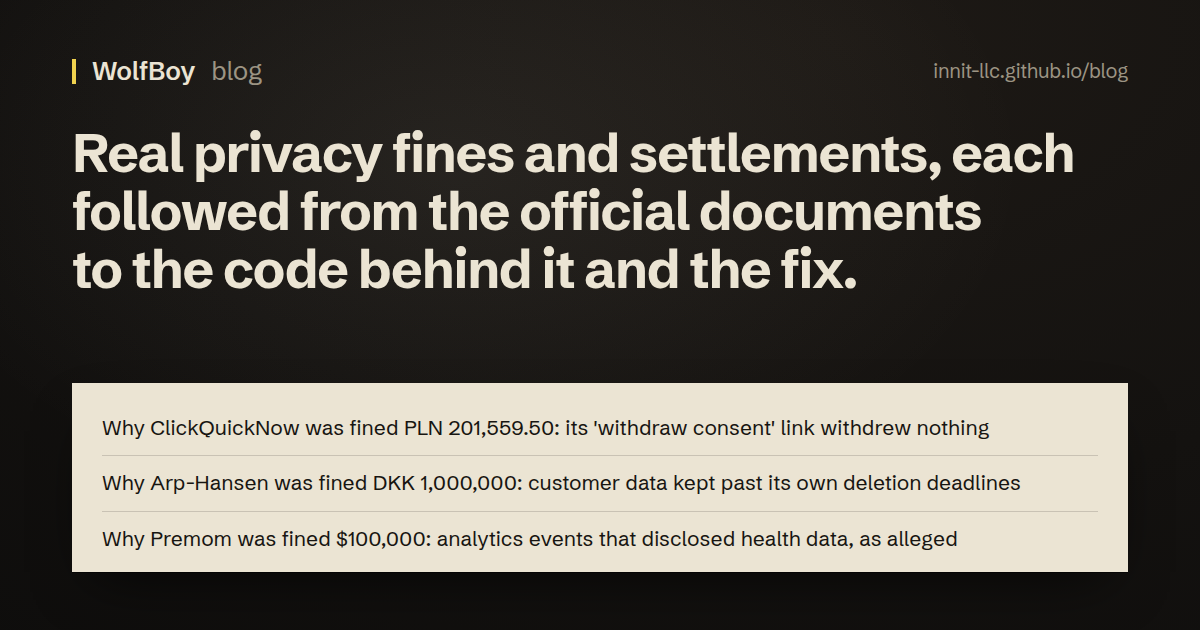
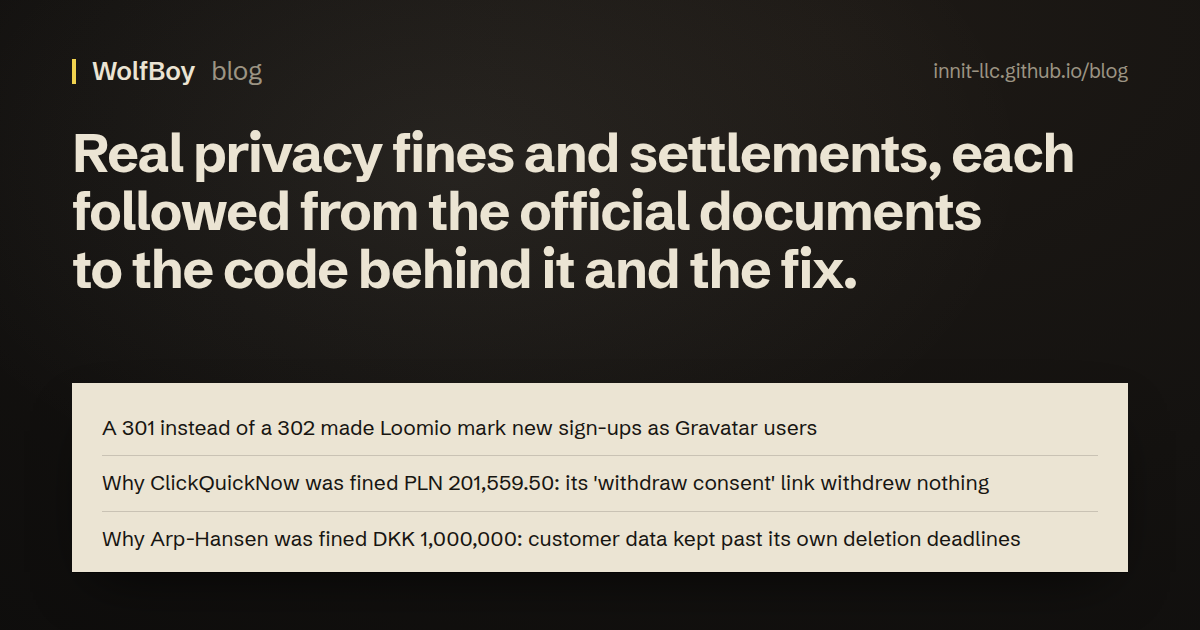
The Loomio Gravatar write-up

Changed region(s): [[0.0617, 0.6635, 0.8325, 0.6937], [0.1233, 0.8444, 0.8633, 0.8746], [0.1233, 0.754, 0.8633, 0.7841]]

diff --git a/docs/loomio-gravatar-301/index.html b/docs/loomio-gravatar-301/index.html
@@ -1,0 +1,118 @@
+<!DOCTYPE html>
+<html lang="en">
+<head>
+<meta charset="utf-8" />
+<meta name="viewport" content="width=device-width, initial-scale=1" />
+<title>A 301 instead of a 302 made Loomio mark new sign-ups as Gravatar users</title>
+<meta name="description" content="Loomio asked Gravatar about every new sign-up over plain HTTP and read anything but a 302 as yes. Gravatar now answers 301. How I found it, and the 3.12.0 fix." />
+<meta property="og:type" content="article" />
+<meta property="og:site_name" content="WolfBoy blog" />
+<meta property="og:title" content="A 301 instead of a 302 made Loomio mark new sign-ups as Gravatar users" />
+<meta property="og:description" content="Loomio asked Gravatar about every new sign-up over plain HTTP and read anything but a 302 as yes. Gravatar now answers 301. How I found it, and the 3.12.0 fix." />
+<meta property="og:url" content="https://innit-llc.github.io/blog/loomio-gravatar-301/" />
+<meta property="og:image" content="https://innit-llc.github.io/blog/og/loomio-gravatar-301.png" />
+<meta property="og:image:width" content="1200" />
+<meta property="og:image:height" content="630" />
+<meta property="og:image:alt" content="A 301 instead of a 302 made Loomio mark new sign-ups as Gravatar users" />
+<meta name="twitter:card" content="summary_large_image" />
+<meta name="color-scheme" content="light dark" />
+<link rel="preload" href="../fonts/SchibstedGrotesk-normal-400-900-latin.woff2" as="font" type="font/woff2" crossorigin="anonymous" />
+<link rel="stylesheet" href="../style.css" />
+</head>
+<body class="post">
+<header class="mast"><div class="wrap"><a class="brand" href="../"><b>WolfBoy</b> blog</a></div></header>
+<main class="wrap">
+<article>
+<header>
+<h1>A 301 instead of a 302 made Loomio mark new sign-ups as Gravatar users</h1>
+<p class="meta"><time datetime="2026-11-17">17 November 2026</time></p>
+</header>
+<p>In late September I ran a static-analysis and LLM review tool I'm building on Loomio v3.9.0. Loomio is an open-source app for group decisions. The tool flagged one method as sending a hash of an email address to a third party that isn't disclosed.</p>
+<p>The method is eleven lines long, in <code>app/models/concerns/has_avatar.rb</code>:</p>
+<pre><code class="language-ruby">def has_gravatar?(options = {})
+  return false if Rails.env.test?
+  hash = Digest::MD5.hexdigest(email.to_s.downcase)
+  options = { :rating =&gt; 'x', :timeout =&gt; 2 }.merge(options)
+  http = Net::HTTP.new('www.gravatar.com', 80)
+  http.read_timeout = options[:timeout]
+  response = http.request_head("/avatar/#{hash}?rating=#{options[:rating]}&amp;default=http://gravatar.com/avatar")
+  response.code != '302'
+rescue StandardError, Timeout::Error
+  false  # Don't show "gravatar" if the service is down or slow
+end
+</code></pre>
+<p>It asks Gravatar whether this email address has a picture. A redirect to the default image (a <code>302</code>) means no. The port-80 request and the <code>'302'</code> comparison date from a 2012 commit.</p>
+<h2 id="reading-it-properly">Reading it properly</h2>
+<p>I read the code around it, with AI assistance, and three things stood out before I ran anything.</p>
+<p>The first was the transport. The port is 80 and <code>use_ssl</code> is never set, so the MD5 of the address travels in the request path, in cleartext.</p>
+<p>The second was the caller. <code>has_gravatar?</code> runs from <code>before_create :set_default_avatar_kind</code>, which means it runs when a user row is created: self sign-up, first SSO login, trial sign-up. For self sign-up the row is created when the address is submitted on the form, before anyone has verified it.</p>
+<p>The third was the last line of the method, <code>response.code != '302'</code>, which counts everything that isn't a 302 as "has a Gravatar".</p>
+<h2 id="running-it">Running it</h2>
+<p>I copied the method body into a script, removed the test-environment guard, added two <code>puts</code> lines, and put the same request over HTTPS next to it. I used two addresses on the reserved <code>.invalid</code> TLD (the first is shown). I didn't touch loomio.com or any other live instance.</p>
+<pre><code>ruby 3.3.9, net-http 0.4.1, 2026-10-20 08:08:10 UTC
+nobody-1@example.invalid md5=bbcdd833ef228897b40575bcd6f25cf5
+  port 80 -&gt; response.code="301" (String) location=https://www.gravatar.com/avatar/bbcdd833ef228897b40575bcd6f25cf5?rating=x&amp;default=http://gravatar.com/avatar
+  has_gravatar? as written (port 80) =&gt; true
+  port 443 -&gt; response.code="302"
+  same check over HTTPS              =&gt; false
+</code></pre>
+<p>The method returned <code>true</code> for an address that cannot exist. Over HTTPS, Gravatar still answers <code>302</code> for "no picture". Over port 80 it answers <code>301</code> and points at the same URL on HTTPS. <code>Net::HTTP#request_head</code> doesn't follow redirects, so the code sees the string <code>"301"</code>, and <code>"301" != "302"</code> is true.</p>
+<p>Loomio's code hadn't changed since 2012; Gravatar's server had. The Internet Archive has a plain-HTTP avatar URL returning <code>200</code> on 2023-04-13 and a <code>301</code> to HTTPS on 2023-10-04, with nothing captured in between. Somewhere in that window the check started answering yes.</p>
+<h2 id="what-that-does-to-people">What that does to people</h2>
+<p>On a server that reaches www.gravatar.com directly on port 80, accounts created by sign-up, SSO or trial without an uploaded picture end up with <code>avatar_kind = 'gravatar'</code>. Their avatar URL becomes <code>https://secure.gravatar.com/avatar/&lt;md5&gt;.png?d=retro&amp;r=pg&amp;s=128</code>.</p>
+<p>That URL then goes wherever the avatar goes: other members, notification emails, Microsoft Teams webhooks, Matrix chatbot messages. For authors and commenters in non-private discussions it goes to logged-out visitors too, in the JSON and in the server-rendered HTML. Every browser or mail client that loads the image sends Gravatar the viewer's IP address along with the member's hash. None of these people chose Gravatar, and there was no setting to turn it off.</p>
+<h2 id="an-md5-of-an-email-address-is-not-anonymous">An MD5 of an email address is not anonymous</h2>
+<p>You can't reverse a hash, but you can guess the input, and email addresses are guessable. At Hack.lu in 2013, Dominique Bongard crawled Gravatar hashes from a French political forum and recovered 70% of the addresses behind them [3]. Have I Been Pwned's Gravatar entry says 167 million MD5 hashes were scraped after a technique was published in October 2020, and 114 million of them cracked [4].</p>
+<p>Gravatar's docs now ask for SHA-256 [6]. I don't think that changes much. A message on the oss-security list about a similar CVE makes the same point: both functions are fast to compute over guessed addresses [5]. That is why my report was about the cleartext request and about publishing hashes for people who never opted in, and not about the hash function.</p>
+<p>How much this matters depends on who runs the instance, because Loomio is used by political parties and trade unions. Where the server's IP address identifies the instance, a network observer who knows, guesses or cracks the address learns that it was submitted there. It doesn't show that its owner submitted it, or that the sign-up was ever completed.</p>
+<h2 id="the-report-and-the-fix">The report and the fix</h2>
+<p>I reported it privately through GitHub on 20 October. The maintainers committed the fix the next day and released 3.12.0 with the advisory on the 22nd, two days after the report.</p>
+<p>They did what I had put first in my suggestions and deleted the lookup. The fix commit removes <code>has_gravatar?</code> and leaves this [2]:</p>
+<pre><code class="language-ruby">def set_default_avatar_kind
+  if uploaded_avatar.attached?
+    self.avatar_kind = :uploaded
+  else
+    self.avatar_kind = :initials
+  end
+end
+</code></pre>
+<p>New accounts get initials, and Gravatar is something you select in your profile settings. The same commit stops the profile form from loading a Gravatar preview in the browser, and adds tests asserting that no request goes to gravatar.com.</p>
+<p>It does not touch existing accounts. The release notes say existing Gravatar selections are preserved [7], and nothing in the <code>users</code> table distinguishes a real selection from one the old check made. I had no good answer for this in my report either: re-checking every account would send every hash to Gravatar again. If you ran an instance before 3.12.0, that part is still yours to decide.</p>
+<h2 id="what-to-check-in-your-own-code">What to check in your own code</h2>
+<p>Search for comparisons against a single status code from someone else's server, especially negated ones. <code>!= '302'</code> and <code>== 200</code> are different bets. The second fails towards "no" when the other side changes, and for a privacy decision I think that is the only acceptable direction.</p>
+<p>Search for <code>Net::HTTP.new(host, 80)</code> and for <code>http://</code> in URLs your server requests. A redirect to HTTPS does not protect you, because the path has already gone out by the time the redirect comes back.</p>
+<p>Look at what runs in <code>before_create</code> and similar callbacks. In Loomio, the call to Gravatar went out as soon as an address was submitted on the sign-up form.</p>
+<p>Check, too, whether the code is skipped under test, as this method was by its first line.</p>
+<section class="case">
+<h2 id="the-advisory">The advisory</h2>
+<ul>
+<li><span class="k">Project:</span> Loomio (<code>loomio/loomio</code>)</li>
+<li><span class="k">Affected versions:</span> 3.11.1 and earlier</li>
+<li><span class="k">Fixed in:</span> 3.12.0</li>
+<li><span class="k">Advisory:</span> GHSA-55qv-f272-488r [1]</li>
+<li><span class="k">Severity as published:</span> Medium (CVSS 4.0 base score 6.9)</li>
+<li><span class="k">Published:</span> 22 October 2026</li>
+</ul>
+</section>
+
+<aside class="product-note">
+<p>The tool in this story is WolfBoy. It flagged the email-hash send to an undisclosed third party; the plain HTTP and the 301 came from reading and running the code. It marks places to review. It does not decide what is lawful or find every bug.</p>
+</aside>
+<h2 id="sources">Sources</h2>
+<ol>
+<li>Loomio security advisory GHSA-55qv-f272-488r, published 22 October 2026: <a href="https://github.com/loomio/loomio/security/advisories/GHSA-55qv-f272-488r">https://github.com/loomio/loomio/security/advisories/GHSA-55qv-f272-488r</a></li>
+<li>Loomio, fix commit 9ad26cd: <a href="https://github.com/loomio/loomio/commit/9ad26cd089805461ae45d07cfbfb8d697f73a5e3">https://github.com/loomio/loomio/commit/9ad26cd089805461ae45d07cfbfb8d697f73a5e3</a></li>
+<li>Dominique Bongard, "De-anonymizing Users of French Political Forums", Hack.lu 2013 (slides): <a href="https://archive.hack.lu/2013/dbongard_hacklu_2013.pdf">https://archive.hack.lu/2013/dbongard_hacklu_2013.pdf</a></li>
+<li>Have I Been Pwned, Gravatar entry (added 5 December 2021): <a href="https://haveibeenpwned.com/Breach/Gravatar">https://haveibeenpwned.com/Breach/Gravatar</a></li>
+<li>oss-security, 25 September 2024, on CVE-2024-40761: <a href="https://www.openwall.com/lists/oss-security/2024/09/25/5">https://www.openwall.com/lists/oss-security/2024/09/25/5</a></li>
+<li>Gravatar documentation, "Creating identifier (hash)": <a href="https://docs.gravatar.com/rest/hash/">https://docs.gravatar.com/rest/hash/</a></li>
+<li>Loomio v3.12.0 release notes: <a href="https://github.com/loomio/loomio/releases/tag/v3.12.0">https://github.com/loomio/loomio/releases/tag/v3.12.0</a></li>
+</ol>
+<p><em>This is a developer's account of a published advisory, not legal advice.</em></p>
+<p><em>This article was written with AI assistance and checked against the official sources listed above.</em></p>
+<p class="repo-link">WolfBoy on GitHub: <a href="https://github.com/innit-llc/wolfboy">github.com/innit-llc/wolfboy</a></p>
+</article>
+</main>
+<footer class="site"><div class="wrap">WolfBoy, by INNIT Inc.</div></footer>
+</body>
+</html>

diff --git a/docs/index.html b/docs/index.html
@@ -25,6 +25,11 @@
 <h1>Real privacy fines and settlements, each followed from the official documents to the code behind it and the fix.</h1>
 <ul class="posts">
 <li>
+<h2><a href="loomio-gravatar-301/">A 301 instead of a 302 made Loomio mark new sign-ups as Gravatar users</a></h2>
+<p>Loomio asked Gravatar about every new sign-up over plain HTTP and read anything but a 302 as yes. Gravatar now answers 301. How I found it, and the 3.12.0 fix.</p>
+<p class="meta"><time datetime="2026-11-17">17 November 2026</time></p>
+</li>
+<li>
 <h2><a href="consent-withdrawal-link-poland/">Why ClickQuickNow was fined PLN 201,559.50: its 'withdraw consent' link withdrew nothing</a></h2>
 <p>The unsubscribe page of ClickQuickNow, a Polish e-mail marketer, announced a withdrawal that never happened, and empty withdrawal e-mails were ignored.</p>
 <p class="meta"><time datetime="2026-11-17">17 November 2026</time></p>
